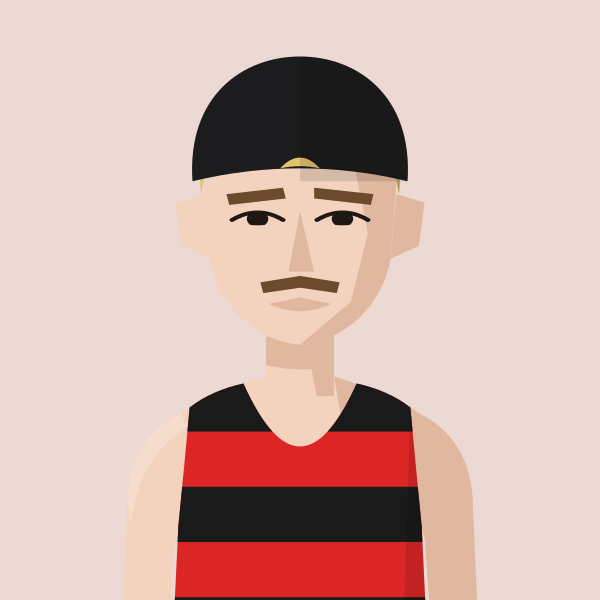
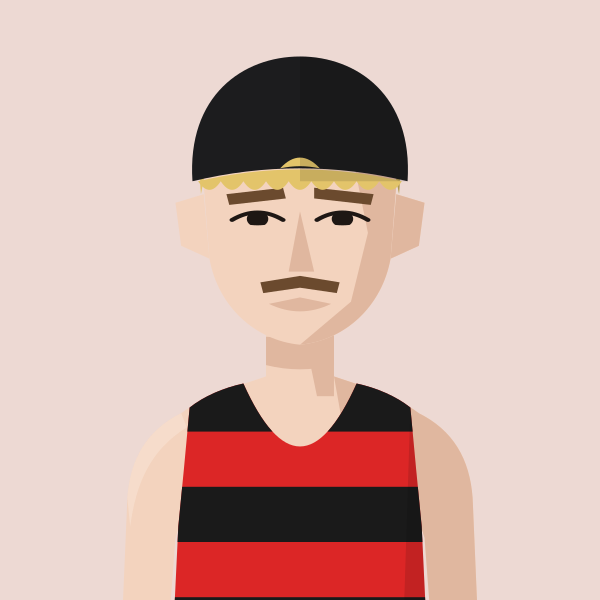
Portraits: 8 more from race 565; hair shows under backwards caps
Claude-Session: https://claude.ai/code/session_01MgmDWhFqnSSnP4iBLKXUZC

Changed region(s): [[0.33, 0.27, 0.66, 0.33]]

diff --git a/files/index.html b/files/index.html
@@ -573,7 +573,7 @@ const LoadingVests=()=>{
 const PORTRAIT_CLUBS=new Set(['BEL','KEN','THH','HHH','H/W','SLH','G&G','RAN','C/C','DUL','HOL','WAL','CRO','WOK','E&E','FUL','SOC','BOX','BOH','AFD','SUR','MIT','REI','DMV','STR','W4H','W/W','K&P','S&D','SEL','DWN','FOT','LCR','ADV','262','MPA','BAC','OME','VAC','HER']);
 // Superstar portraits: every spelling of the athlete's name used in the data -> file in portraits/athletes/
 const PORTRAITS=(()=>{const m={};const add=(file,club,...names)=>names.forEach(n=>m[n.toLowerCase()]={file,club});
-add('kitty-shepherd-cross','BEL','Kitty Shepherd-Cross','Kitty Shepherd Cross');add('jack-kavanagh','HOL','Jack Kavanagh');add('sam-bramwell','HHH','Sam Bramwell');add('suzie-harvey','G&G','Suzie Harvey');add('freddie-hessian','H/W','Freddie Hessian');add('jamie-crowe','H/W','Jamie Crowe');add('sam-gebreselassie','BEL','Samuel Gebreselassie','Sam Gebreselassie');add('jack-brotchie','HHH','Jack Brotchie');add('jack-millar','THH','Jack Millar');add('lucy-jones','HHH','Lucy Jones');add('alex-milne','H/W','Alex Milne');add('josh-trigwell','BEL','Josh Trigwell');add('mack-downie','BEL','Mack Downey','Mack Downie');add('george-ogden','SLH','George Ogden');add('stuart-mccallum','H/W','Stuart McCallum');add('andrew-penney','H/W','Andrew Penney');add('jeremy-dempsey','THH','Jeremy Dempsey');add('henry-hart','BEL','Henry Hart');add('john-sanderson','G&G','John Sanderson');add('andy-fyfe','BEL','Andrew Fyfe','Andy Fyfe');add('saron-haileselase','BEL','Saron Haileselase');add('paskar-owor','BEL','Paskar Owor');add('ruby-carter','H/W','Ruby Carter');add('tom-foster','G&G','Tom Foster');add('mark-tennyson','G&G','Mark Tennyson');add('richard-ollington','THH','Richard Ollington');add('james-preston','BEL','James Preston');add('daniel-wolff','BEL','Daniel Wolff');add('jonny-scott','BEL','Jonathan Scott','Jonny Scott');add('josh-mitchell','BEL','Josh Mitchell');add('dylan-evans','BEL','Dylan Evans');add('morgan-roberts','HHH','Morgan Roberts');add('fred-slemeck','H/W','Fred Slemeck','Frederick Slemeck');add('matthew-edgar','BEL','Matthew Edgar');add('sam-sommerville','BEL','Sam Sommerville');add('richard-mcdowell','H/W','Richard McDowell');add('margaret-coogan','HHH','Margaret Coogan');add('owen-hind','KEN','Owen Hind','Owen Hinds');add('indy-barnes','THH','Indy Barnes');add('conall-mcnally','BEL','Conall McNally');add('rowan-board','HHH','Rowan Board');add('andy-weir','THH','Andy Weir','Andrew Weir');add('neil-chisholm','THH','Neil Chisholm','Neal Chisholm');add('pancho-panchev','H/W','Pancho Panchev');add('adrien-royer','G&G','Adrien Royer');add('rob-kelly','BEL','Robert Kelly','Rob Kelly');add('alex-janiaud','BEL','Alex Janiaud');add('tom-renshaw','THH','Thomas Renshaw','Tom Renshaw');add('jack-ramm','DUL','Jack Ramm');add('findlay-dyer','BEL','Findlay Dyer');add('james-blackwood','DUL','James Blackwood');add('sonny-nicoll','H/W','Sonny Nicoll');add('anisse-ismaili','THH','Anisse Ismaili');add('caleb-hathaway','HHH','Caleb Hathaway');add('barnaby-day','KEN','Barnaby Day');add('simon-coppard','BEL','Simon Coppard');add('ronan-tanguy','HHH','Ronan Tanguy');add('chris-threadgold','BEL','Chris Threadgold');add('mathew-speed','KEN','Mathew Speed','Matthew Speed');add('john-lethbridge','THH','John Lethbridge');add('oliver-fox','THH','Oliver Fox');add('jack-woods','HOL','Jack Woods');add('larry-ryan','BEL','Larry Ryan');add('ethan-mccolgan','THH','Ethan McColgan');add('jonathan-collier','KEN','Jonathan Collier');add('andrew-green','HOL','Andrew Green','Andy Green');add('fintan-pearce','BEL','Fintan Pearce');add('daniel-shaw','HHH','Daniel Shaw');add('sam-tyas','BEL','Sam Tyas');add('tom-austin','HHH','Tom Austin');add('ian-ellwood','KEN','Ian Ellwood');add('rian-mccawley','BEL','Rian McCawley');add('kieran-barnes','HOL','Kieran Barnes');add('ed-mallett','H/W','Ed Mallett','Edward Mallett');add('john-hutchins','WOK','John Hutchins');add('george-gathercole','THH','George Gathercole');add('nick-lightfoot','G&G','Nick Lightfoot');add('eoin-brady','H/W','Eoin Brady');add('james-stockings','H/W','James Stockings');
+add('kitty-shepherd-cross','BEL','Kitty Shepherd-Cross','Kitty Shepherd Cross');add('jack-kavanagh','HOL','Jack Kavanagh');add('sam-bramwell','HHH','Sam Bramwell');add('suzie-harvey','G&G','Suzie Harvey');add('freddie-hessian','H/W','Freddie Hessian');add('jamie-crowe','H/W','Jamie Crowe');add('sam-gebreselassie','BEL','Samuel Gebreselassie','Sam Gebreselassie');add('jack-brotchie','HHH','Jack Brotchie');add('jack-millar','THH','Jack Millar');add('lucy-jones','HHH','Lucy Jones');add('alex-milne','H/W','Alex Milne');add('josh-trigwell','BEL','Josh Trigwell');add('mack-downie','BEL','Mack Downey','Mack Downie');add('george-ogden','SLH','George Ogden');add('stuart-mccallum','H/W','Stuart McCallum');add('andrew-penney','H/W','Andrew Penney');add('jeremy-dempsey','THH','Jeremy Dempsey');add('henry-hart','BEL','Henry Hart');add('john-sanderson','G&G','John Sanderson');add('andy-fyfe','BEL','Andrew Fyfe','Andy Fyfe');add('saron-haileselase','BEL','Saron Haileselase');add('paskar-owor','BEL','Paskar Owor');add('ruby-carter','H/W','Ruby Carter');add('tom-foster','G&G','Tom Foster');add('mark-tennyson','G&G','Mark Tennyson');add('richard-ollington','THH','Richard Ollington');add('james-preston','BEL','James Preston');add('daniel-wolff','BEL','Daniel Wolff');add('jonny-scott','BEL','Jonathan Scott','Jonny Scott');add('josh-mitchell','BEL','Josh Mitchell');add('dylan-evans','BEL','Dylan Evans');add('morgan-roberts','HHH','Morgan Roberts');add('fred-slemeck','H/W','Fred Slemeck','Frederick Slemeck');add('matthew-edgar','BEL','Matthew Edgar');add('sam-sommerville','BEL','Sam Sommerville');add('richard-mcdowell','H/W','Richard McDowell');add('margaret-coogan','HHH','Margaret Coogan');add('owen-hind','KEN','Owen Hind','Owen Hinds');add('indy-barnes','THH','Indy Barnes');add('conall-mcnally','BEL','Conall McNally');add('rowan-board','HHH','Rowan Board');add('andy-weir','THH','Andy Weir','Andrew Weir');add('neil-chisholm','THH','Neil Chisholm','Neal Chisholm');add('pancho-panchev','H/W','Pancho Panchev');add('adrien-royer','G&G','Adrien Royer');add('rob-kelly','BEL','Robert Kelly','Rob Kelly');add('alex-janiaud','BEL','Alex Janiaud');add('tom-renshaw','THH','Thomas Renshaw','Tom Renshaw');add('jack-ramm','DUL','Jack Ramm');add('findlay-dyer','BEL','Findlay Dyer');add('james-blackwood','DUL','James Blackwood');add('sonny-nicoll','H/W','Sonny Nicoll');add('anisse-ismaili','THH','Anisse Ismaili');add('caleb-hathaway','HHH','Caleb Hathaway');add('barnaby-day','KEN','Barnaby Day');add('simon-coppard','BEL','Simon Coppard');add('ronan-tanguy','HHH','Ronan Tanguy');add('chris-threadgold','BEL','Chris Threadgold');add('mathew-speed','KEN','Mathew Speed','Matthew Speed');add('john-lethbridge','THH','John Lethbridge');add('oliver-fox','THH','Oliver Fox');add('jack-woods','HOL','Jack Woods');add('larry-ryan','BEL','Larry Ryan');add('ethan-mccolgan','THH','Ethan McColgan');add('jonathan-collier','KEN','Jonathan Collier');add('andrew-green','HOL','Andrew Green','Andy Green');add('fintan-pearce','BEL','Fintan Pearce');add('daniel-shaw','HHH','Daniel Shaw');add('sam-tyas','BEL','Sam Tyas');add('tom-austin','HHH','Tom Austin');add('ian-ellwood','KEN','Ian Ellwood');add('rian-mccawley','BEL','Rian McCawley');add('kieran-barnes','HOL','Kieran Barnes');add('ed-mallett','H/W','Ed Mallett','Edward Mallett');add('john-hutchins','WOK','John Hutchins');add('george-gathercole','THH','George Gathercole');add('nick-lightfoot','G&G','Nick Lightfoot');add('eoin-brady','H/W','Eoin Brady');add('james-stockings','H/W','James Stockings');add('jack-hobden','H/W','Jack Hobden');add('hugo-hewitt','HOL','Hugo Hewitt');add('zach-nolan','BEL','Zach Nolan');add('isaac-lutaya','H/W','Isaac Lutaya');add('oliver-young','BEL','Oliver Young');add('ben-racle','KEN','Ben Racle');add('josh-snow','BEL','Josh Snow');add('oliver-reynolds','BEL','Oliver Reynolds');
 return m;})();
 // Athlete header figure: superstar portrait if we have one, else a grey runner in the club vest, else the plain vest icon
 const AthletePortrait=({name,club,w,fill,onClick})=>{const[failed,setFailed]=useState(false);const pk=PORTRAITS[normalizeNameForCompare(name).replace(/\s*\([^)]*\)$/,'')];const file=pk&&pk.club===club?pk.file:null;const src=file?`/portraits/athletes/${file}.svg`:PORTRAIT_CLUBS.has(club)?`/portraits/clubs/${club.replace(/\//g,'').replace(/&/g,'and')}.svg`:null;if(!src||failed)return<div onClick={onClick} className={onClick?'cursor-pointer':''}><ClubShield club={club} size={w}/></div>;const h=Math.round(w*148/126),ih=Math.round(w*1.4);if(fill)return<div onClick={onClick} className="cursor-pointer" style={{alignSelf:'stretch',minHeight:h,aspectRatio:'126 / 148',flexShrink:0,position:'relative',borderRadius:4,overflow:'hidden'}}><img src={src} alt={file?`Portrait of ${name.replace(/\s*\([^)]*\)$/,'')}`:`Runner in ${CLUBS[club]?.name||club} vest`} style={{position:'absolute',top:0,left:0,display:'block',width:'100%',height:'auto'}} onError={()=>setFailed(true)}/></div>;return<div style={{width:w,height:h,borderRadius:4,overflow:'hidden',flexShrink:0}}><img src={src} alt={file?`Portrait of ${name.replace(/\s*\([^)]*\)$/,'')}`:`Runner in ${CLUBS[club]?.name||club} vest`} width={w} height={ih} style={{display:'block',width:w,height:ih}} onError={()=>setFailed(true)}/></div>;};

diff --git a/tools/gen_portraits.py b/tools/gen_portraits.py
@@ -197,6 +197,8 @@ def figure(kit, mode="custom", skin=1, hair="crop", hair_colour="dark brown", fa
     if custom and cap and cap_back:  # cap worn backwards: crown only, strap opening at the front
         hg.append(f'<g fill="{cap}"><path d="M62,94 C60,54 80,36 100,36 C120,36 140,54 138,94 Q100,82 62,94 Z"/></g>'
                   f'<path d="M93,88 Q100,78 107,88 Q100,86 93,88 Z" fill="{hc}"/>'
+                  + (f'<path d="M64,94 ' + ''.join('q4,8 8,0 ' for _ in range(9)) + f'Q100,83 64,94 Z" fill="{hc}"/>' if hair and hair not in ("buzz", "buzzrecede") else '')
+                  + 
                   f'<g clip-path="url(#r{tag})" fill="#000" opacity=".12"><path d="M62,94 C60,54 80,36 100,36 C120,36 140,54 138,94 Z"/></g>')
     elif custom and cap:
         hg.append(f'<g fill="{cap}"><path d="M63,98 C61,58 80,38 100,38 C120,38 139,58 137,98 Z"/>'
@@ -348,3 +350,11 @@ save("gathercole", figure("THH", skin=1, hair="quiff", hair_colour="mid brown"))
 save("lightfoot", figure("G&G", skin=1, hair="topknot", hair_colour="light brown", glasses=True))
 save("brady", figure("H/W", skin=1, hair="croprecede", hair_colour="ginger"))
 save("stockings", figure("H/W", skin=1, hair="shortcurls", hair_colour="mid brown", facial="beard"))
+save("hobden", figure("H/W", skin=1, hair="shortcurls", hair_colour="ginger", cap="#1C1C1E", cap_back=True))
+save("hewitt", figure("HOL", skin=1, hair="tousled", hair_colour="#B89668"))
+save("nolan", figure("BEL", skin=1, hair="crop", hair_colour="mid brown", facial="moustache"))
+save("lutaya", figure("H/W", skin=6, hair="buzz", hair_colour="black"))
+save("young", figure("BEL", skin=1, hair="tousled", hair_colour="dark brown", facial="stubble"))
+save("racle", figure("KEN", skin=1, hair="croprecede", hair_colour="mid brown", facial="beard"))
+save("snow", figure("BEL", skin=1, hair="quiff", hair_colour="blonde"))
+save("reynolds", figure("BEL", skin=1, hair="buzz", hair_colour="mid brown"))
